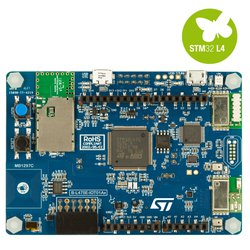
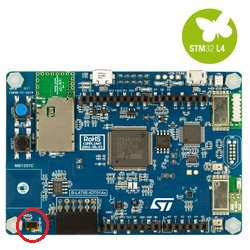
a

Changed region(s): [[0.056, 0.812, 0.224, 0.98]]

diff --git a/README.md b/README.md
@@ -20,8 +20,10 @@ This is third lab of Software for embedded that consists of 3 problems. The boar
 This section is to explain the system in hardware part of Car-parking group
 
 we use 
-- ![DISCO_L475VG_IOT01A](./image/DISCO_L475VG_IOT01A.jpg)
+- ![DISCO_L475VG_IOT01A](./image/DISCO_L475VG_IOT01A.jpg) Time-of-Flight and gesture-detection sensor (VL53L0X) of DISCO_L475VG_IOT01A board in hardware part (as red circle)
 - [VL53L0X](https://os.mbed.com/teams/ST/code/VL53L0X/#e9269ff624ed) library 
+- According to the standard size of car-park-lot the high is 2.4 meter ![hight of car](https://3.bp.blogspot.com/-PGCxG6SMCxs/VgtPimM3dVI/AAAAAAAAC00/lYaVA7Xlj2A/s640/%25E0%25B8%25A3%25E0%25B8%25B0%25E0%25B8%2594%25E0%25B8%25B1%25E0%25B8%259A%25E0%25B8%2584%25E0%25B8%25A7%25E0%25B8%25B2%25E0%25B8%25A1%25E0%25B8%25AA%25E0%25B8%25B9%25E0%25B8%2587%25E0%25B8%2582%25E0%25B8%25AD%25E0%25B8%2587%25E0%25B8%259B%25E0%25B8%25A3%25E0%25B8%25B0%25E0%25B8%2595%25E0%25B8%25B9%25E0%25B8%2595%25E0%25B8%25B2%25E0%25B8%25A1%25E0%25B8%25A5%25E0%25B8%25B1%25E0%25B8%2581%25E0%25B8%25A9%25E0%25B8%2593%25E0%25B8%25B0%25E0%25B8%2581%25E0%25B8%25B2%25E0%25B8%25A3%25E0%25B9%2583%25E0%25B8%258A%25E0%25B9%2589%25E0%25B8%2587%25E0%25B8%25B2%25E0%25B8%2599%25E0%25B8%2595%25E0%25B9%2588%25E0%25B8%25B2%25E0%25B8%2587%25E0%25B9%2586.jpg) 
+ 
 
 
 
